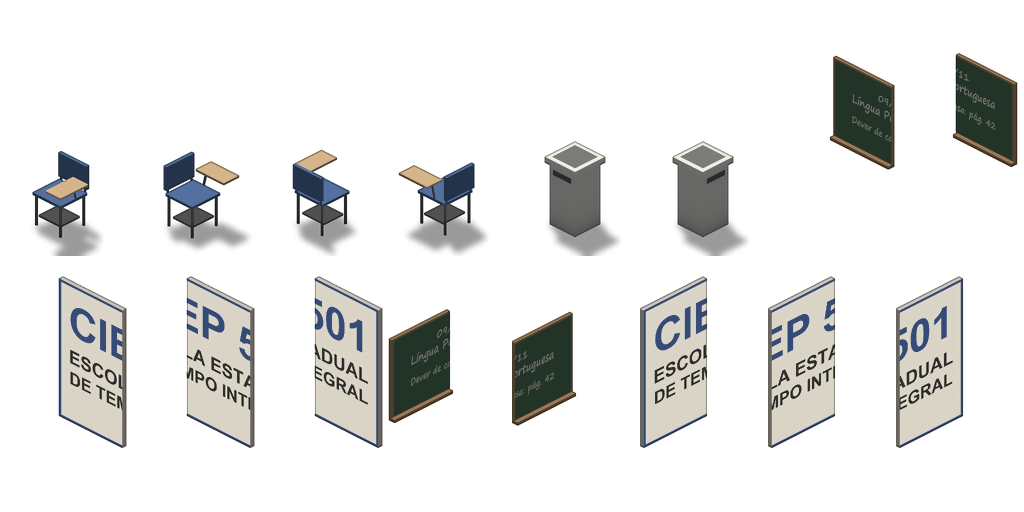
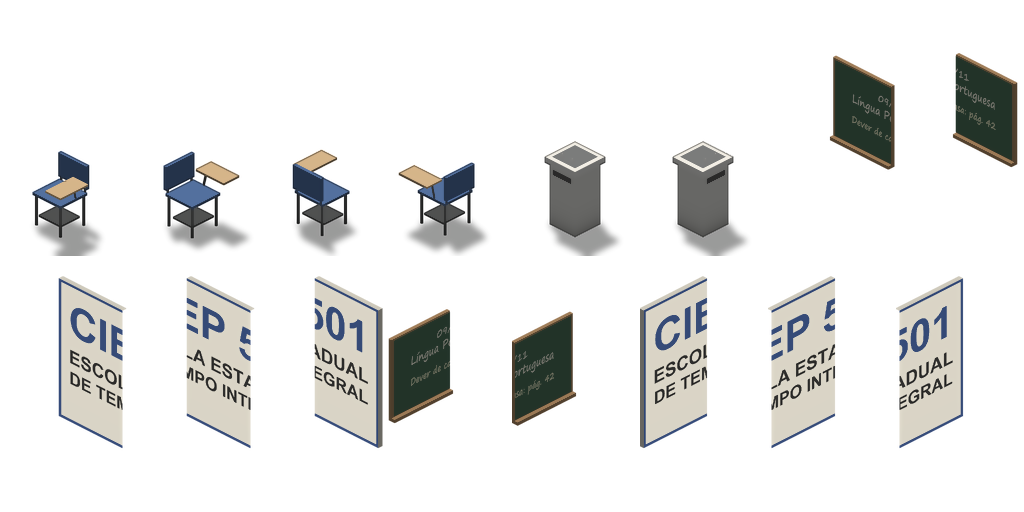
CIEP: sem linhas verticais (sem junta a cada tile, arco e janela largos sem coluna na emenda, peitoril sem relevo, letreiro e quadro sem contorno nas emendas); problema B7

diff --git a/scripts/gerador/kit_ciep.py b/scripts/gerador/kit_ciep.py
@@ -56,7 +56,8 @@ def concreto_painel(seed):
     poro, _ = tf.pontos(U, v, 80, 240, 0.4, 0.25, seed + 1)
     cor = cor * (1 - 0.05 * poro)[..., None]
     h = 0.3 * poro
-    junta_v = np.minimum(U, 1 - U) * 63 < 0.9
+    # sem junta vertical a cada tile (pedido do usuário: as emendas viravam linhas na fachada)
+    junta_v = np.zeros_like(U, dtype=bool)
     junta_h = (Z < 2.0) | (np.abs(Z - 188) < 1.0)
     j = junta_v | junta_h
     cor = np.where(j[..., None], cor * 0.78, cor)
@@ -271,7 +272,6 @@ def peca_arco_largo(molde, face, texs, Lref, forma):
     nasce = topo - r
     centro = (a + b) / 2 * 63
     dentro = (ug >= a) & (ug <= b) & ((Z <= nasce) | (np.hypot(ug * 63 - centro, Z - nasce) <= r))
-    dentro &= (np.mgrid[0:256, 0:128][1] < 63) if face == "W" else (np.mgrid[0:256, 0:128][1] > 64)
     im[..., 3] = np.where(dentro, 0, im[..., 3])
     return Image.fromarray(im, "RGBA")
 
@@ -288,7 +288,6 @@ def peca_arco(molde, face, texs, Lref):
     r = (u1 - u0) * 63 / 2
     topo = ARCO_TOPO_M * PX_M
     furo = (U >= u0) & (U <= u1) & (Z <= topo) & ~_fora_arredondado(U, Z, u0, u1, -60, topo, r, so_topo=True)
-    furo &= (np.mgrid[0:256, 0:128][1] < 63) if face == "W" else (np.mgrid[0:256, 0:128][1] > 64)
     im[..., 3] = np.where(furo, 0, im[..., 3])
     return Image.fromarray(im, "RGBA")
 
@@ -311,14 +310,13 @@ def recorte_largo(molde, face, base_ch, Lref, vao, forma, cp, cf):
     em = (U >= a - 0.04) & (U <= b + 0.04) & (Z >= pz0) & (Z <= pz1)
     em &= ~_fora_arredondado(U, Z, a - 0.04, b + 0.04, pz0, pz1 + 30, 0.3 * 63)
     cor = np.where(em[..., None], np.array(cp, float) * (1 + 0.1 * tf.sstep(pz0, pz1, Z))[..., None], cor)
-    h = np.where(em, 1.2, h)
+    # sem relevo na faixa: a textura é periódica e o relevo "dava a volta" na emenda, virando um traço escuro
     if cf is not None:
         fx = (Z >= z1 + 0.05 * PX_M) & (Z <= z1 + 0.25 * PX_M) & (U >= a - 0.04) & (U <= b + 0.04)
         cor = np.where(fx[..., None], np.array(cf, float), cor)
     im = np.array(kf.peca_parede_tex(molde, face, kb._iluminar(cor, h), Lref))
     Up, Zp = _uz(face)
     furo = (Up >= a) & (Up <= b) & (Zp >= z0) & (Zp <= z1) & ~_fora_arredondado(Up, Zp, a, b, z0, z1, 0.3 * (z1 - z0))
-    furo &= (np.mgrid[0:256, 0:128][1] < 63) if face == "W" else (np.mgrid[0:256, 0:128][1] > 64)
     im[..., 3] = np.where(furo, 0, im[..., 3])
     return Image.fromarray(im, "RGBA")
 
@@ -496,7 +494,9 @@ def letreiro(parte):
         if face != "y1":
             return np.broadcast_to(np.array([200, 198, 190.0]), np.shape(u) + (3,))
         return kb.amostra(img, (u + parte) / LETREIRO_PARTES, (v - z0) / (z1 - z0)) * K
-    c.caixa(0.0, 0.0, z0, 1.0, 0.06, z1, None, frente, brilho=0.15)
+    # só as pontas de fora do letreiro têm lateral (as laterais internas viravam linhas nas emendas)
+    faces = ('y1', 'topo') + (('x0',) if parte == 0 else ()) + (('x1',) if parte == LETREIRO_PARTES - 1 else ())
+    c.caixa(0.0, 0.0, z0, 1.0, 0.06, z1, None, frente, brilho=0.15, faces=faces)
     return c
 
 

diff --git a/scripts/gerador/estilo_pz.py b/scripts/gerador/estilo_pz.py
@@ -80,7 +80,7 @@ def filtrar_peca(cel: np.ndarray, tipo: str, forca: float = 1.0, m=None) -> np.n
 ESTILO = "pz_v1"
 
 
-def filtrar_folha(folha, tipo: str, forca: float = 1.0) -> Image.Image:
+def filtrar_folha(folha, tipo: str, forca: float = 1.0, sem_contorno=()) -> Image.Image:
     """`folha`: Image ou caminho do PNG. Devolve a folha filtrada (RGBA)."""
     im = np.array((folha if isinstance(folha, Image.Image) else Image.open(folha)).convert("RGBA"))
     a = im[..., 3].astype(float) / 255
@@ -88,7 +88,9 @@ def filtrar_folha(folha, tipo: str, forca: float = 1.0) -> Image.Image:
     out = im.copy()
     for y in range(0, im.shape[0], 256):
         for x in range(0, im.shape[1], 128):
-            out[y:y + 256, x:x + 128] = filtrar_peca(im[y:y + 256, x:x + 128], tipo, forca, m)
+            i = (y // 256) * (im.shape[1] // 128) + x // 128
+            t = "peca" if i in sem_contorno else tipo     # peça de um conjunto (letreiro, quadro): sem contorno na emenda
+            out[y:y + 256, x:x + 128] = filtrar_peca(im[y:y + 256, x:x + 128], t, forca, m)
     return Image.fromarray(out, "RGBA")
 
 

diff --git a/scripts/gerador/kit_favela.py b/scripts/gerador/kit_favela.py
@@ -416,7 +416,8 @@ def _entrada_bt(texto: str, categoria: str, prefixo: str) -> dict:
 def _gravar(folha, nome, tipo, pecas, saida: Path, buildingtiles: dict, bruto=False) -> dict:
     saida.mkdir(parents=True, exist_ok=True)
     import estilo_pz  # filtro de estilo do jogo (aprovado em 09/11/2026)
-    estilo_pz.filtrar_folha(folha, tipo).save(saida / f"{nome}.png")
+    juntas = {i for i, pc in enumerate(pecas) if str(pc.get("nome", "")).startswith(("letreiro", "quadro"))}
+    estilo_pz.filtrar_folha(folha, tipo, sem_contorno=juntas).save(saida / f"{nome}.png")
     man = {"folha": nome, "tipo": tipo, "pecas": pecas, "buildingtiles": buildingtiles, "bt_nomes_prontos": bruto,
            "estilo": estilo_pz.ESTILO}
     (saida / f"{nome}.json").write_text(json.dumps(man, ensure_ascii=False, indent=1), encoding="utf-8")

diff --git a/PROBLEMAS_CONHECIDOS.md b/PROBLEMAS_CONHECIDOS.md
@@ -161,3 +161,4 @@ Aprovado pelo usuário: rua reta com faixa no meio (U13 corrigido), zumbis jogá
 | B5 | Peças de frente para a câmera (face sul/leste) saíam escuras no renderizador 3D (portão "branco" cinza, janela) | A luz do renderizador vem do noroeste: face sul/leste fica com metade da luz | Multiplicar a cor dessas faces (×1,8 a ×2) ao desenhar | Resolvido |
 | B6 | Comando com `<<'EOF'` e texto com aspas quebrou no Bash ("unexpected EOF") e um script com caminho `C:\Users` deu erro de `\U` no Python | Aspas e barras invertidas dentro de texto longo | Gravar o ajuste num arquivo .py no scratchpad e rodar; caminhos do Windows em string crua (`r"..."`) | Contornado |
 
+| B7 | Linhas verticais no CIEP: uma a cada tile na fachada, uma coluna no meio do arco largo e da janela larga, traço escuro ao lado das janelas e linhas nas emendas do letreiro (usuário, 09/11/2026) | (1) junta de painel desenhada em toda emenda de tile; (2) o recorte do vão poupava a "espessura" da parede na ponta da peça (2 a 5 px), que na emenda das metades virava coluna; (3) relevo na faixa do peitoril "dava a volta" na textura periódica; (4) o filtro D-46 desenhava contorno escuro em cada peça do letreiro | Sem junta vertical; recorte do vão largo e do arco até a ponta da peça; faixa do peitoril sem relevo; peças de conjunto (`letreiro*`, `quadro*`) sem contorno no filtro (`kit_favela._gravar`) | Resolvido |
